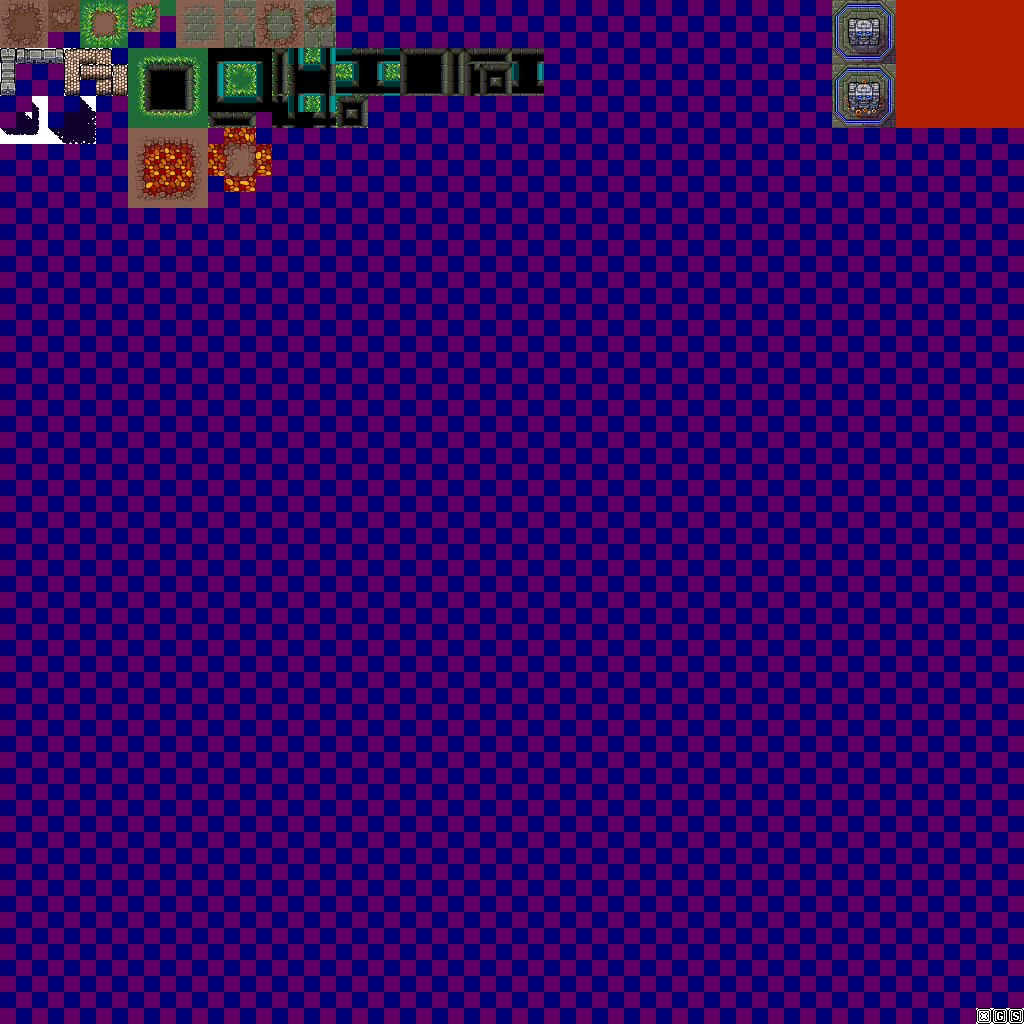
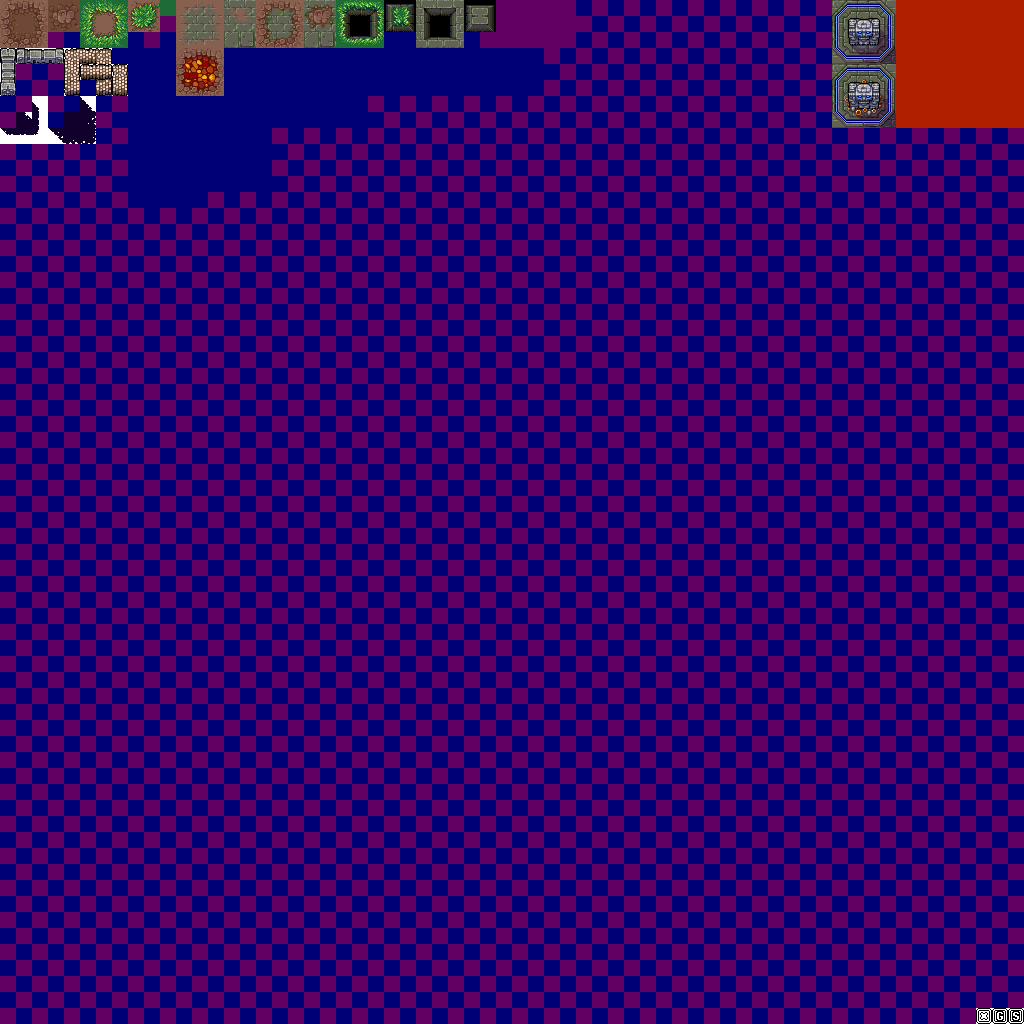
Remade Pit into Tiled Terrain: Per tile collision shapes are in, with Type "Pit". Test map Steppe_test_Pit_02.tmx

Changed region(s): [[0.125, 0.0, 0.5625, 0.2188]]

diff --git a/Teotihuacan/Content/Levels/TileSet_Main.tsx b/Teotihuacan/Content/Levels/TileSet_Main.tsx
@@ -1,5 +1,5 @@
 <?xml version="1.0" encoding="UTF-8"?>
-<tileset name="Main" tilewidth="16" tileheight="16" tilecount="4096" columns="64">
+<tileset version="1.2" tiledversion="1.2.4" name="Main" tilewidth="16" tileheight="16" tilecount="4096" columns="64">
  <image source="TileSheet_Main.png" width="1024" height="1024"/>
  <terraintypes>
   <terrain name="Base ground" tile="70"/>
@@ -9,6 +9,8 @@
   <terrain name="Stone slabs v2 transition v1" tile="82"/>
   <terrain name="Shadow small" tile="386"/>
   <terrain name="Shadow big" tile="389"/>
+  <terrain name="Pit" tile="26"/>
+  <terrain name="Fire pit" tile="0"/>
  </terraintypes>
  <tile id="0" type="Ground" terrain="0,0,0,1"/>
  <tile id="1" type="Ground" terrain="0,0,1,1"/>
@@ -31,6 +33,60 @@
  <tile id="18" type="Ground" terrain="0,0,4,0"/>
  <tile id="19" type="Ground" terrain="4,4,4,0"/>
  <tile id="20" type="Ground" terrain="4,4,0,4"/>
+ <tile id="21" terrain="2,2,2,7">
+  <objectgroup draworder="index">
+   <object id="1" type="Pit" x="8" y="8" width="8" height="8"/>
+  </objectgroup>
+ </tile>
+ <tile id="22" terrain="2,2,7,7">
+  <objectgroup draworder="index">
+   <object id="1" type="Pit" x="0" y="8" width="16" height="8"/>
+  </objectgroup>
+ </tile>
+ <tile id="23" terrain="2,2,7,2">
+  <objectgroup draworder="index">
+   <object id="1" type="Pit" x="0" y="8" width="8" height="8"/>
+  </objectgroup>
+ </tile>
+ <tile id="24" terrain="7,7,7,2">
+  <objectgroup draworder="index">
+   <object id="1" type="Pit" x="0" y="8" width="8" height="8"/>
+   <object id="2" type="Pit" x="0" y="0" width="16" height="8"/>
+  </objectgroup>
+ </tile>
+ <tile id="25" terrain="7,7,2,7">
+  <objectgroup draworder="index">
+   <object id="1" type="Pit" x="8" y="8" width="8" height="8"/>
+   <object id="2" type="Pit" x="0" y="0" width="16" height="8"/>
+  </objectgroup>
+ </tile>
+ <tile id="26" terrain="3,3,3,7">
+  <objectgroup draworder="index">
+   <object id="1" type="Pit" x="8" y="8" width="8" height="8"/>
+  </objectgroup>
+ </tile>
+ <tile id="27" terrain="3,3,7,7">
+  <objectgroup draworder="index">
+   <object id="1" type="Pit" x="0" y="8" width="16" height="8"/>
+  </objectgroup>
+ </tile>
+ <tile id="28" terrain="3,3,7,3">
+  <objectgroup draworder="index">
+   <object id="1" type="Pit" x="0" y="8" width="8" height="8"/>
+  </objectgroup>
+ </tile>
+ <tile id="29" terrain="7,7,7,3">
+  <objectgroup draworder="index">
+   <object id="1" type="Pit" x="0" y="0" width="16" height="8"/>
+   <object id="2" type="Pit" x="0" y="8" width="8" height="8"/>
+  </objectgroup>
+ </tile>
+ <tile id="30" terrain="7,7,3,7">
+  <objectgroup draworder="index">
+   <object id="1" type="Pit" x="0" y="0" width="16" height="8"/>
+   <object id="2" type="Pit" x="8" y="8" width="8" height="8"/>
+  </objectgroup>
+ </tile>
  <tile id="52" type="RemoveMe"/>
  <tile id="53" type="RemoveMe"/>
  <tile id="54" type="RemoveMe"/>
@@ -55,6 +111,52 @@
  <tile id="82" type="Ground" terrain="4,0,4,0"/>
  <tile id="83" type="Ground" terrain="4,0,4,4"/>
  <tile id="84" type="Ground" terrain="0,4,4,4"/>
+ <tile id="85" terrain="2,7,2,7">
+  <objectgroup draworder="index">
+   <object id="1" type="Pit" x="8" y="0" width="8" height="16"/>
+  </objectgroup>
+ </tile>
+ <tile id="86" terrain="7,7,7,7"/>
+ <tile id="87" terrain="7,2,7,2">
+  <objectgroup draworder="index">
+   <object id="1" type="Pit" x="0" y="0" width="8" height="16"/>
+  </objectgroup>
+ </tile>
+ <tile id="88" terrain="7,2,7,7">
+  <objectgroup draworder="index">
+   <object id="1" type="Pit" x="0" y="0" width="8" height="8"/>
+   <object id="2" type="Pit" x="0" y="8" width="16" height="8"/>
+  </objectgroup>
+ </tile>
+ <tile id="89" terrain="2,7,7,7">
+  <objectgroup draworder="index">
+   <object id="1" type="Pit" x="8" y="0" width="8" height="8"/>
+   <object id="2" type="Pit" x="0" y="8" width="16" height="8"/>
+  </objectgroup>
+ </tile>
+ <tile id="90" terrain="3,7,3,7">
+  <objectgroup draworder="index">
+   <object id="1" type="Pit" x="8" y="0" width="8" height="16"/>
+  </objectgroup>
+ </tile>
+ <tile id="91" terrain="7,7,7,7"/>
+ <tile id="92" terrain="7,3,7,3">
+  <objectgroup draworder="index">
+   <object id="1" type="Pit" x="0" y="0" width="8" height="16"/>
+  </objectgroup>
+ </tile>
+ <tile id="93" terrain="7,3,7,7">
+  <objectgroup draworder="index">
+   <object id="1" type="Pit" x="0" y="0" width="8" height="8"/>
+   <object id="2" type="Pit" x="0" y="8" width="16" height="8"/>
+  </objectgroup>
+ </tile>
+ <tile id="94" terrain="3,7,7,7">
+  <objectgroup draworder="index">
+   <object id="1" type="Pit" x="8" y="0" width="8" height="8"/>
+   <object id="2" type="Pit" x="0" y="8" width="16" height="8"/>
+  </objectgroup>
+ </tile>
  <tile id="116" type="RemoveMe"/>
  <tile id="117" type="PlayerBase">
   <properties>
@@ -80,6 +182,36 @@
  <tile id="146" type="Ground" terrain="4,0,0,0"/>
  <tile id="147" type="Ground" terrain="4,4,4,4" probability="0.2"/>
  <tile id="148" type="Ground" terrain="4,4,4,4" probability="0.1"/>
+ <tile id="149" terrain="2,7,2,2">
+  <objectgroup draworder="index">
+   <object id="1" type="Pit" x="8" y="0" width="8" height="8"/>
+  </objectgroup>
+ </tile>
+ <tile id="150" terrain="7,7,2,2">
+  <objectgroup draworder="index">
+   <object id="1" type="Pit" x="0" y="0" width="16" height="8"/>
+  </objectgroup>
+ </tile>
+ <tile id="151" terrain="7,2,2,2">
+  <objectgroup draworder="index">
+   <object id="1" type="Pit" x="0" y="0" width="8" height="8"/>
+  </objectgroup>
+ </tile>
+ <tile id="154" terrain="3,7,3,3">
+  <objectgroup draworder="index">
+   <object id="1" type="Pit" x="8" y="0" width="8" height="8"/>
+  </objectgroup>
+ </tile>
+ <tile id="155" terrain="7,7,3,3">
+  <objectgroup draworder="index">
+   <object id="1" type="Pit" x="0" y="0" width="16" height="8"/>
+  </objectgroup>
+ </tile>
+ <tile id="156" terrain="7,3,3,3">
+  <objectgroup draworder="index">
+   <object id="1" type="Pit" x="0" y="0" width="8" height="8"/>
+  </objectgroup>
+ </tile>
  <tile id="180" type="RemoveMe"/>
  <tile id="181" type="RemoveMe"/>
  <tile id="182" type="RemoveMe"/>
@@ -88,7 +220,9 @@
  <tile id="193" type="Wall"/>
  <tile id="194" type="Wall"/>
  <tile id="195" type="Wall"/>
- <tile id="205" type="Pit"/>
+ <tile id="203" terrain="0,0,0,8"/>
+ <tile id="204" terrain="0,0,8,8"/>
+ <tile id="205" type="Pit" terrain="0,0,8,0"/>
  <tile id="206" type="Pit"/>
  <tile id="207" type="Pit"/>
  <tile id="208" type="Pit"/>
@@ -115,8 +249,9 @@
  <tile id="256" type="Wall"/>
  <tile id="265" type="Pit"/>
  <tile id="266" type="Pit"/>
- <tile id="267" type="Pit"/>
- <tile id="269" type="Pit"/>
+ <tile id="267" type="Pit" terrain="0,8,0,8"/>
+ <tile id="268" terrain="8,8,8,8"/>
+ <tile id="269" type="Pit" terrain="8,0,8,0"/>
  <tile id="272" type="Pit"/>
  <tile id="273" type="Pit"/>
  <tile id="274" type="Pit"/>
@@ -140,8 +275,9 @@
  <tile id="320" type="Wall"/>
  <tile id="329" type="Pit"/>
  <tile id="330" type="Pit"/>
- <tile id="331" type="Pit"/>
- <tile id="333" type="Pit"/>
+ <tile id="331" type="Pit" terrain="0,8,0,0"/>
+ <tile id="332" terrain="8,8,0,0"/>
+ <tile id="333" type="Pit" terrain="8,0,0,0"/>
  <tile id="336" type="Pit"/>
  <tile id="337" type="Pit"/>
  <tile id="338" type="Pit"/>
